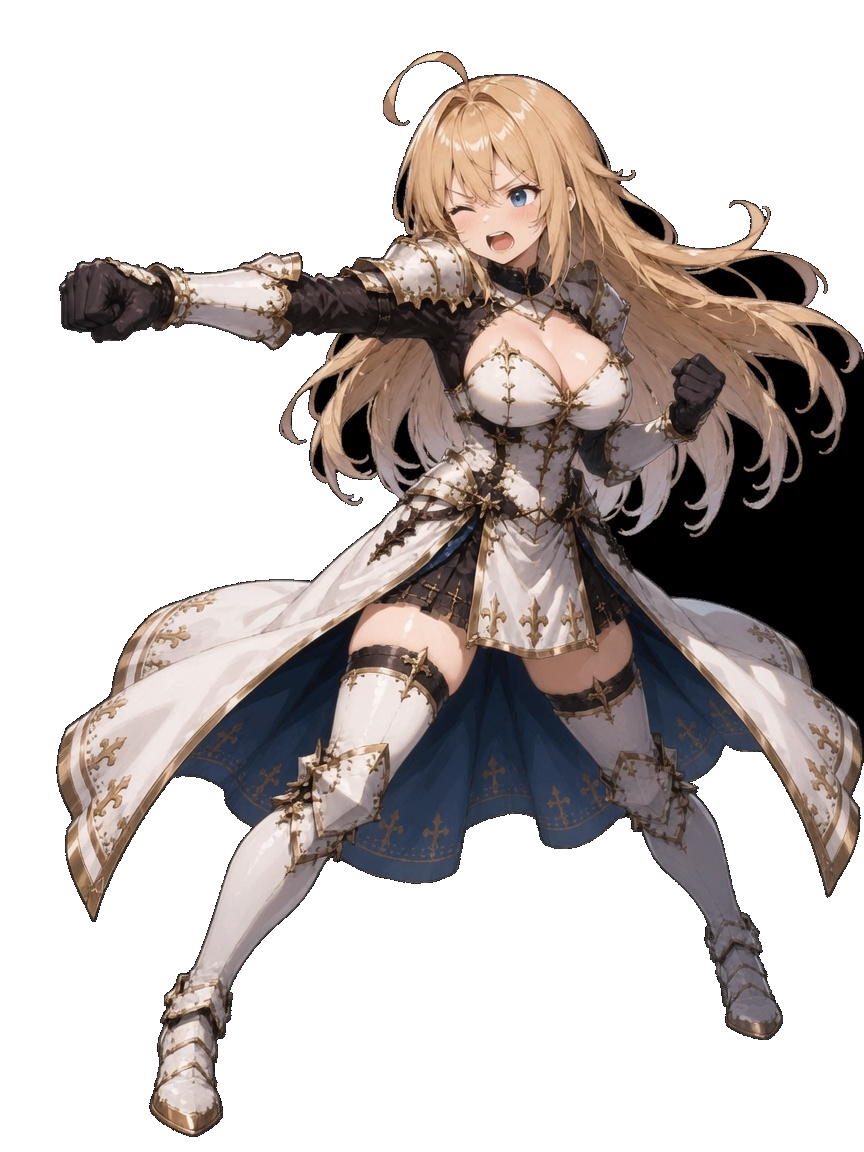
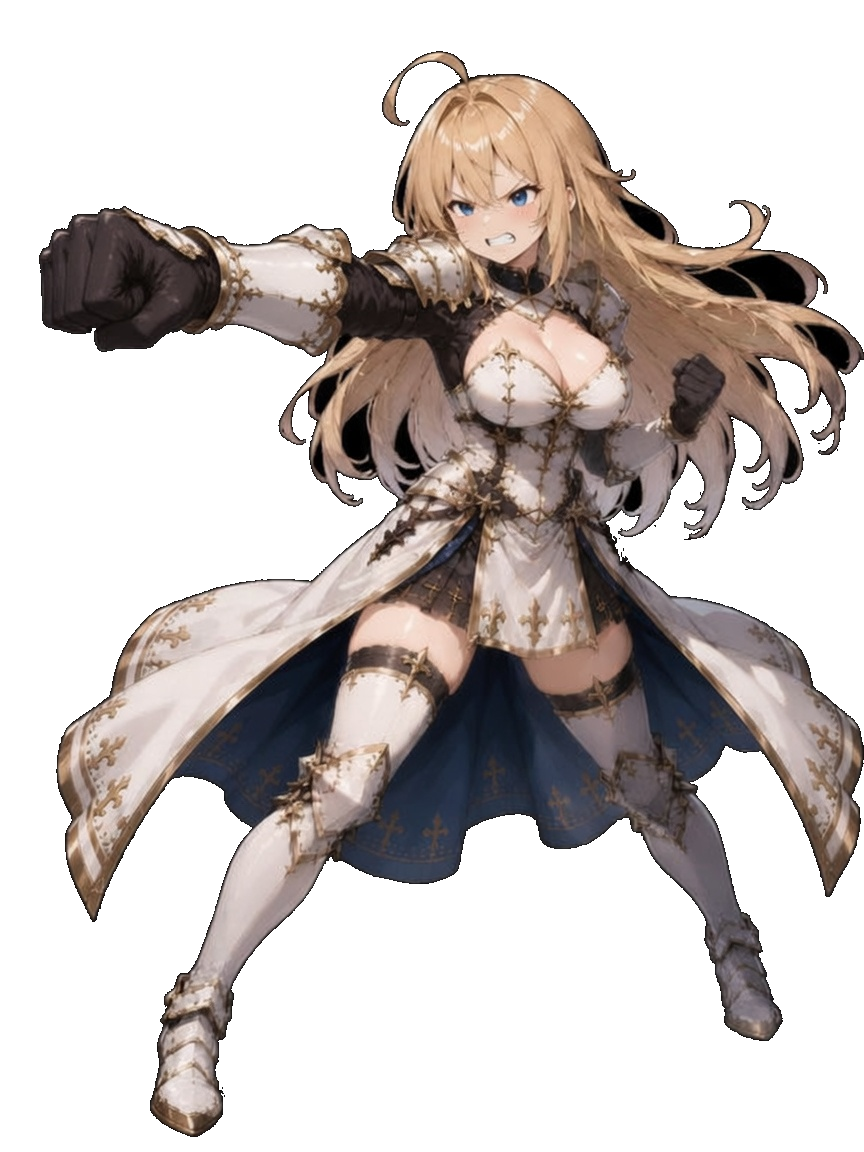
Armored unarmed punch in 41-style committed leftward hit.

diff --git a/tests/portraitCatalog.test.js b/tests/portraitCatalog.test.js
@@ -26,7 +26,9 @@ describe("portraitCatalog", () => {
     expect(sets.damage_fire).toEqual(["damage_fire"]);
     expect(sets.damage).not.toContain("damage_falling");
     expect(sets.attack).toEqual(["battle_melee"]);
-    expect(sets.attack_unarmed).toEqual(["battle_unarmed"]);
+    expect(sets.attack_unarmed).toEqual(
+      expect.arrayContaining(["battle_unarmed", "battle_unarmed_2"]),
+    );
     expect(sets.dash).toEqual(["battle_dash"]);
     expect(sets.act_potion).toContain("action_drink_potion");
     expect(sets.act_scroll).toEqual(["action_read_scroll"]);

diff --git a/portraitCatalog.js b/portraitCatalog.js
@@ -36,6 +36,7 @@ export const PORTRAIT_CATEGORIES = [
     slots: [
       { file: "battle_melee", label: "近接攻撃（武器）" },
       { file: "battle_unarmed", label: "素手攻撃", group: "attack_unarmed" },
+      { file: "battle_unarmed_2", label: "素手攻撃2", group: "attack_unarmed" },
       { file: "battle_unarmed_unarmored", label: "素手攻撃（未装備）", group: "attack_unarmed_bare" },
       { file: "battle_unarmed_unarmored_2", label: "素手攻撃（未装備）2", group: "attack_unarmed_bare" },
     ],
